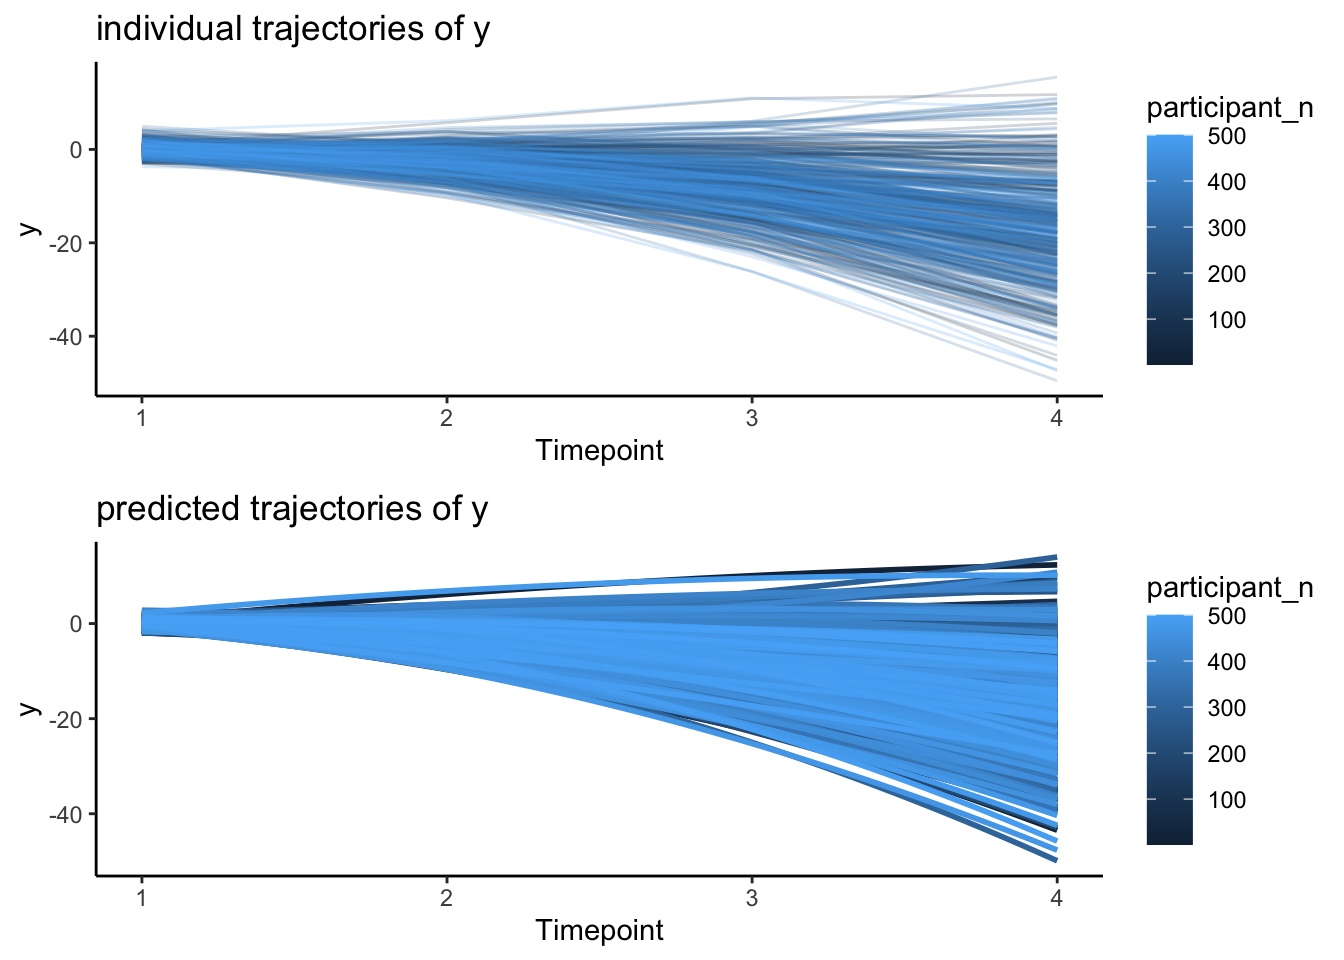
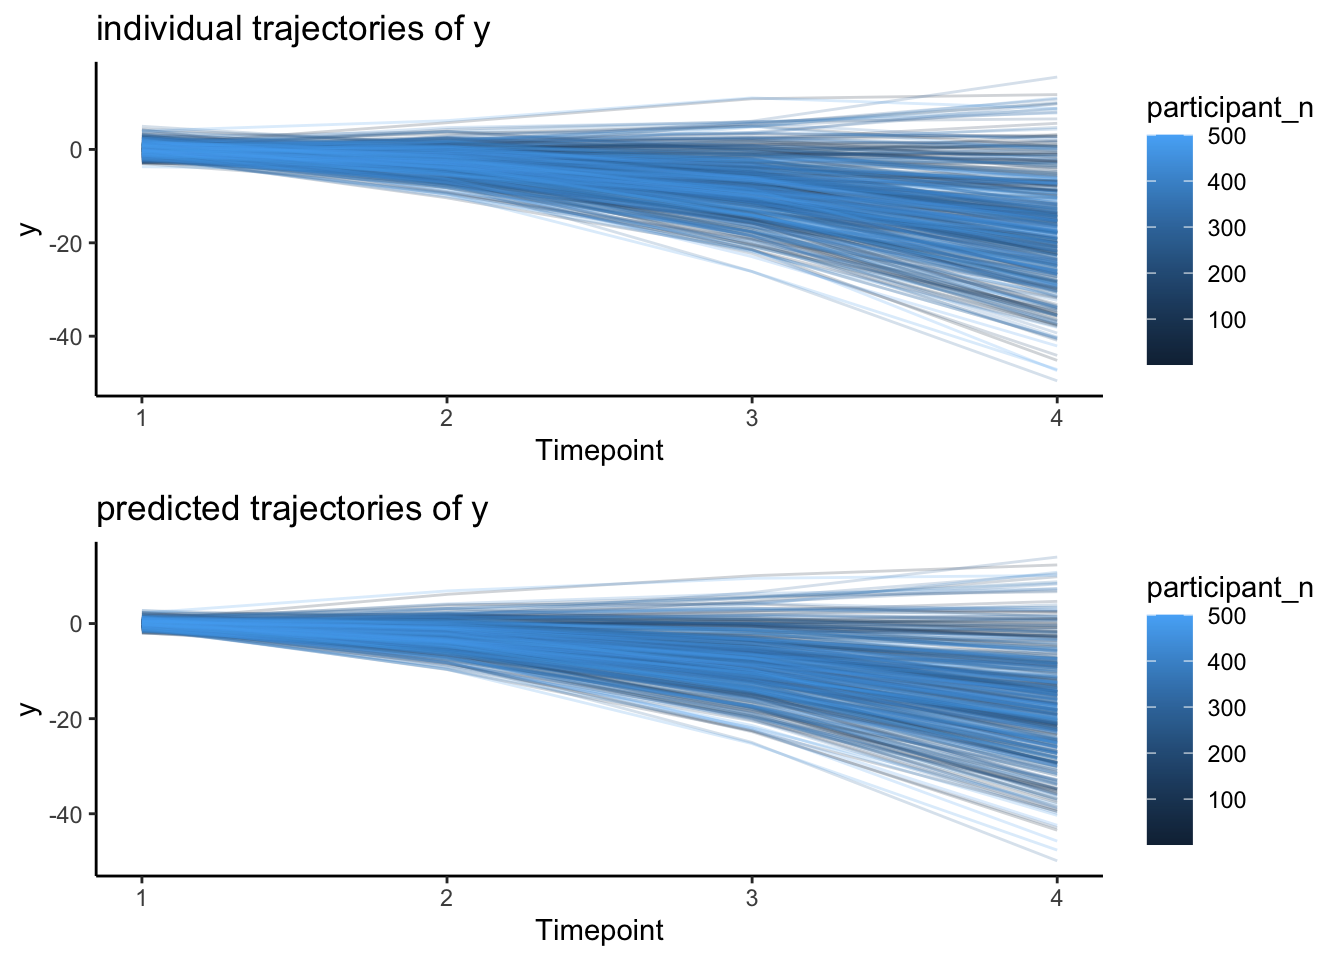
fixing plots for ppm

Changed region(s): [[0.0938, 0.5625, 0.8125, 0.9062]]

diff --git a/content/2020-09-08-growth-parallel-process-models.html b/content/2020-09-08-growth-parallel-process-models.html
@@ -507,14 +507,9 @@ scale_y_continuous(name = &quot;x&quot;,
                           color = participant_n),
               alpha = 0.2) + 
   theme_classic() + ggtitle(&#39;predicted x trajectories&#39;) </code></pre>
-<p>Here is the individual trajectories again (below)</p>
-<pre class="r"><code>individual_x_trajectories</code></pre>
+<p>We can compare those to the observed trajectories (top) to the predicted trajectories (bottom) with <code>{gridExtra}</code> to merge our plots.</p>
+<pre class="r"><code>gridExtra::grid.arrange(individual_x_trajectories, predicted_x_trajectories, ncol=1)</code></pre>
 <p><img src="/2020-09-08-growth-parallel-process-models_files/figure-html/unnamed-chunk-19-1.png" width="672" /></p>
-<p>We can compare those to the predicted trajectories (below)</p>
-<pre class="r"><code>predicted_x_trajectories</code></pre>
-<p><img src="/2020-09-08-growth-parallel-process-models_files/figure-html/unnamed-chunk-20-1.png" width="672" /></p>
-<pre class="r"><code>#gridExtra::grid.arrange(individual_x_trajectories, predicted_x_trajectories, ncol=1)</code></pre>
-<pre class="r"><code>#gridExtra::grid.arrange(individual_x_trajectories, predicted_x_trajectories, ncol=1)</code></pre>
 <p>For a quadratic model, this is more challenging, but here’s some code to do it:</p>
 <pre class="r"><code>plot_dat &lt;- lavPredict(full_fit) %&gt;% data.frame()
 plot_dat$participant_n &lt;- 1:nrow(plot_dat)
@@ -562,18 +557,14 @@ plot_dat_2 &lt;- data.frame(
 predicted_y_trajectories &lt;- plot_dat_2 %&gt;% ggplot(aes(x = Timepoint, 
                           y = y, 
                           group = participant_n, 
-                          color = participant_n), 
-                          alpha = 0.2) +
- geom_smooth(formula = y ~ x + I(x^2), 
-             method = &quot;lm&quot;, se = F)+
+                          color = participant_n)) +
+ geom_line(formula = y ~ x + I(x^2),  
+             method = &quot;lm&quot;, se = F, alpha = 0.2)+
   theme_classic() + ggtitle(&#39;predicted trajectories of y&#39;)</code></pre>
-<p>Here is the individual trajectories again (below)</p>
-<pre class="r"><code>individual_y_trajectories</code></pre>
-<p><img src="/2020-09-08-growth-parallel-process-models_files/figure-html/unnamed-chunk-23-1.png" width="672" /></p>
-<p>We can compare those to the predicted trajectories (below)</p>
-<pre class="r"><code>predicted_y_trajectories</code></pre>
-<p><img src="/2020-09-08-growth-parallel-process-models_files/figure-html/unnamed-chunk-24-1.png" width="672" /></p>
-<pre class="r"><code>#gridExtra::grid.arrange(individual_y_trajectories, predicted_y_trajectories, ncol=1)</code></pre>
+<pre><code>## Warning: Ignoring unknown parameters: formula, method, se</code></pre>
+<p>Again, can compare those to the observed trajectories (top) to the predicted trajectories (bottom).</p>
+<pre class="r"><code>gridExtra::grid.arrange(individual_y_trajectories, predicted_y_trajectories, ncol=1)</code></pre>
+<p><img src="/2020-09-08-growth-parallel-process-models_files/figure-html/unnamed-chunk-21-1.png" width="672" /></p>
 </div>
 <div id="next-steps" class="section level1">
 <h1>Next Steps:</h1>

diff --git a/public/growth-parallel-process-models/index.html b/public/growth-parallel-process-models/index.html
@@ -696,14 +696,9 @@ scale_y_continuous(name = &quot;x&quot;,
                           color = participant_n),
               alpha = 0.2) + 
   theme_classic() + ggtitle(&#39;predicted x trajectories&#39;) </code></pre>
-<p>Here is the individual trajectories again (below)</p>
-<pre class="r"><code>individual_x_trajectories</code></pre>
+<p>We can compare those to the observed trajectories (top) to the predicted trajectories (bottom) with <code>{gridExtra}</code> to merge our plots.</p>
+<pre class="r"><code>gridExtra::grid.arrange(individual_x_trajectories, predicted_x_trajectories, ncol=1)</code></pre>
 <p><img src="/2020-09-08-growth-parallel-process-models_files/figure-html/unnamed-chunk-19-1.png" width="672" /></p>
-<p>We can compare those to the predicted trajectories (below)</p>
-<pre class="r"><code>predicted_x_trajectories</code></pre>
-<p><img src="/2020-09-08-growth-parallel-process-models_files/figure-html/unnamed-chunk-20-1.png" width="672" /></p>
-<pre class="r"><code>#gridExtra::grid.arrange(individual_x_trajectories, predicted_x_trajectories, ncol=1)</code></pre>
-<pre class="r"><code>#gridExtra::grid.arrange(individual_x_trajectories, predicted_x_trajectories, ncol=1)</code></pre>
 <p>For a quadratic model, this is more challenging, but here’s some code to do it:</p>
 <pre class="r"><code>plot_dat &lt;- lavPredict(full_fit) %&gt;% data.frame()
 plot_dat$participant_n &lt;- 1:nrow(plot_dat)
@@ -751,18 +746,14 @@ plot_dat_2 &lt;- data.frame(
 predicted_y_trajectories &lt;- plot_dat_2 %&gt;% ggplot(aes(x = Timepoint, 
                           y = y, 
                           group = participant_n, 
-                          color = participant_n), 
-                          alpha = 0.2) +
- geom_smooth(formula = y ~ x + I(x^2), 
-             method = &quot;lm&quot;, se = F)+
+                          color = participant_n)) +
+ geom_line(formula = y ~ x + I(x^2),  
+             method = &quot;lm&quot;, se = F, alpha = 0.2)+
   theme_classic() + ggtitle(&#39;predicted trajectories of y&#39;)</code></pre>
-<p>Here is the individual trajectories again (below)</p>
-<pre class="r"><code>individual_y_trajectories</code></pre>
-<p><img src="/2020-09-08-growth-parallel-process-models_files/figure-html/unnamed-chunk-23-1.png" width="672" /></p>
-<p>We can compare those to the predicted trajectories (below)</p>
-<pre class="r"><code>predicted_y_trajectories</code></pre>
-<p><img src="/2020-09-08-growth-parallel-process-models_files/figure-html/unnamed-chunk-24-1.png" width="672" /></p>
-<pre class="r"><code>#gridExtra::grid.arrange(individual_y_trajectories, predicted_y_trajectories, ncol=1)</code></pre>
+<pre><code>## Warning: Ignoring unknown parameters: formula, method, se</code></pre>
+<p>Again, can compare those to the observed trajectories (top) to the predicted trajectories (bottom).</p>
+<pre class="r"><code>gridExtra::grid.arrange(individual_y_trajectories, predicted_y_trajectories, ncol=1)</code></pre>
+<p><img src="/2020-09-08-growth-parallel-process-models_files/figure-html/unnamed-chunk-21-1.png" width="672" /></p>
 </div>
 <div id="next-steps" class="section level1">
 <h1>Next Steps:</h1>
